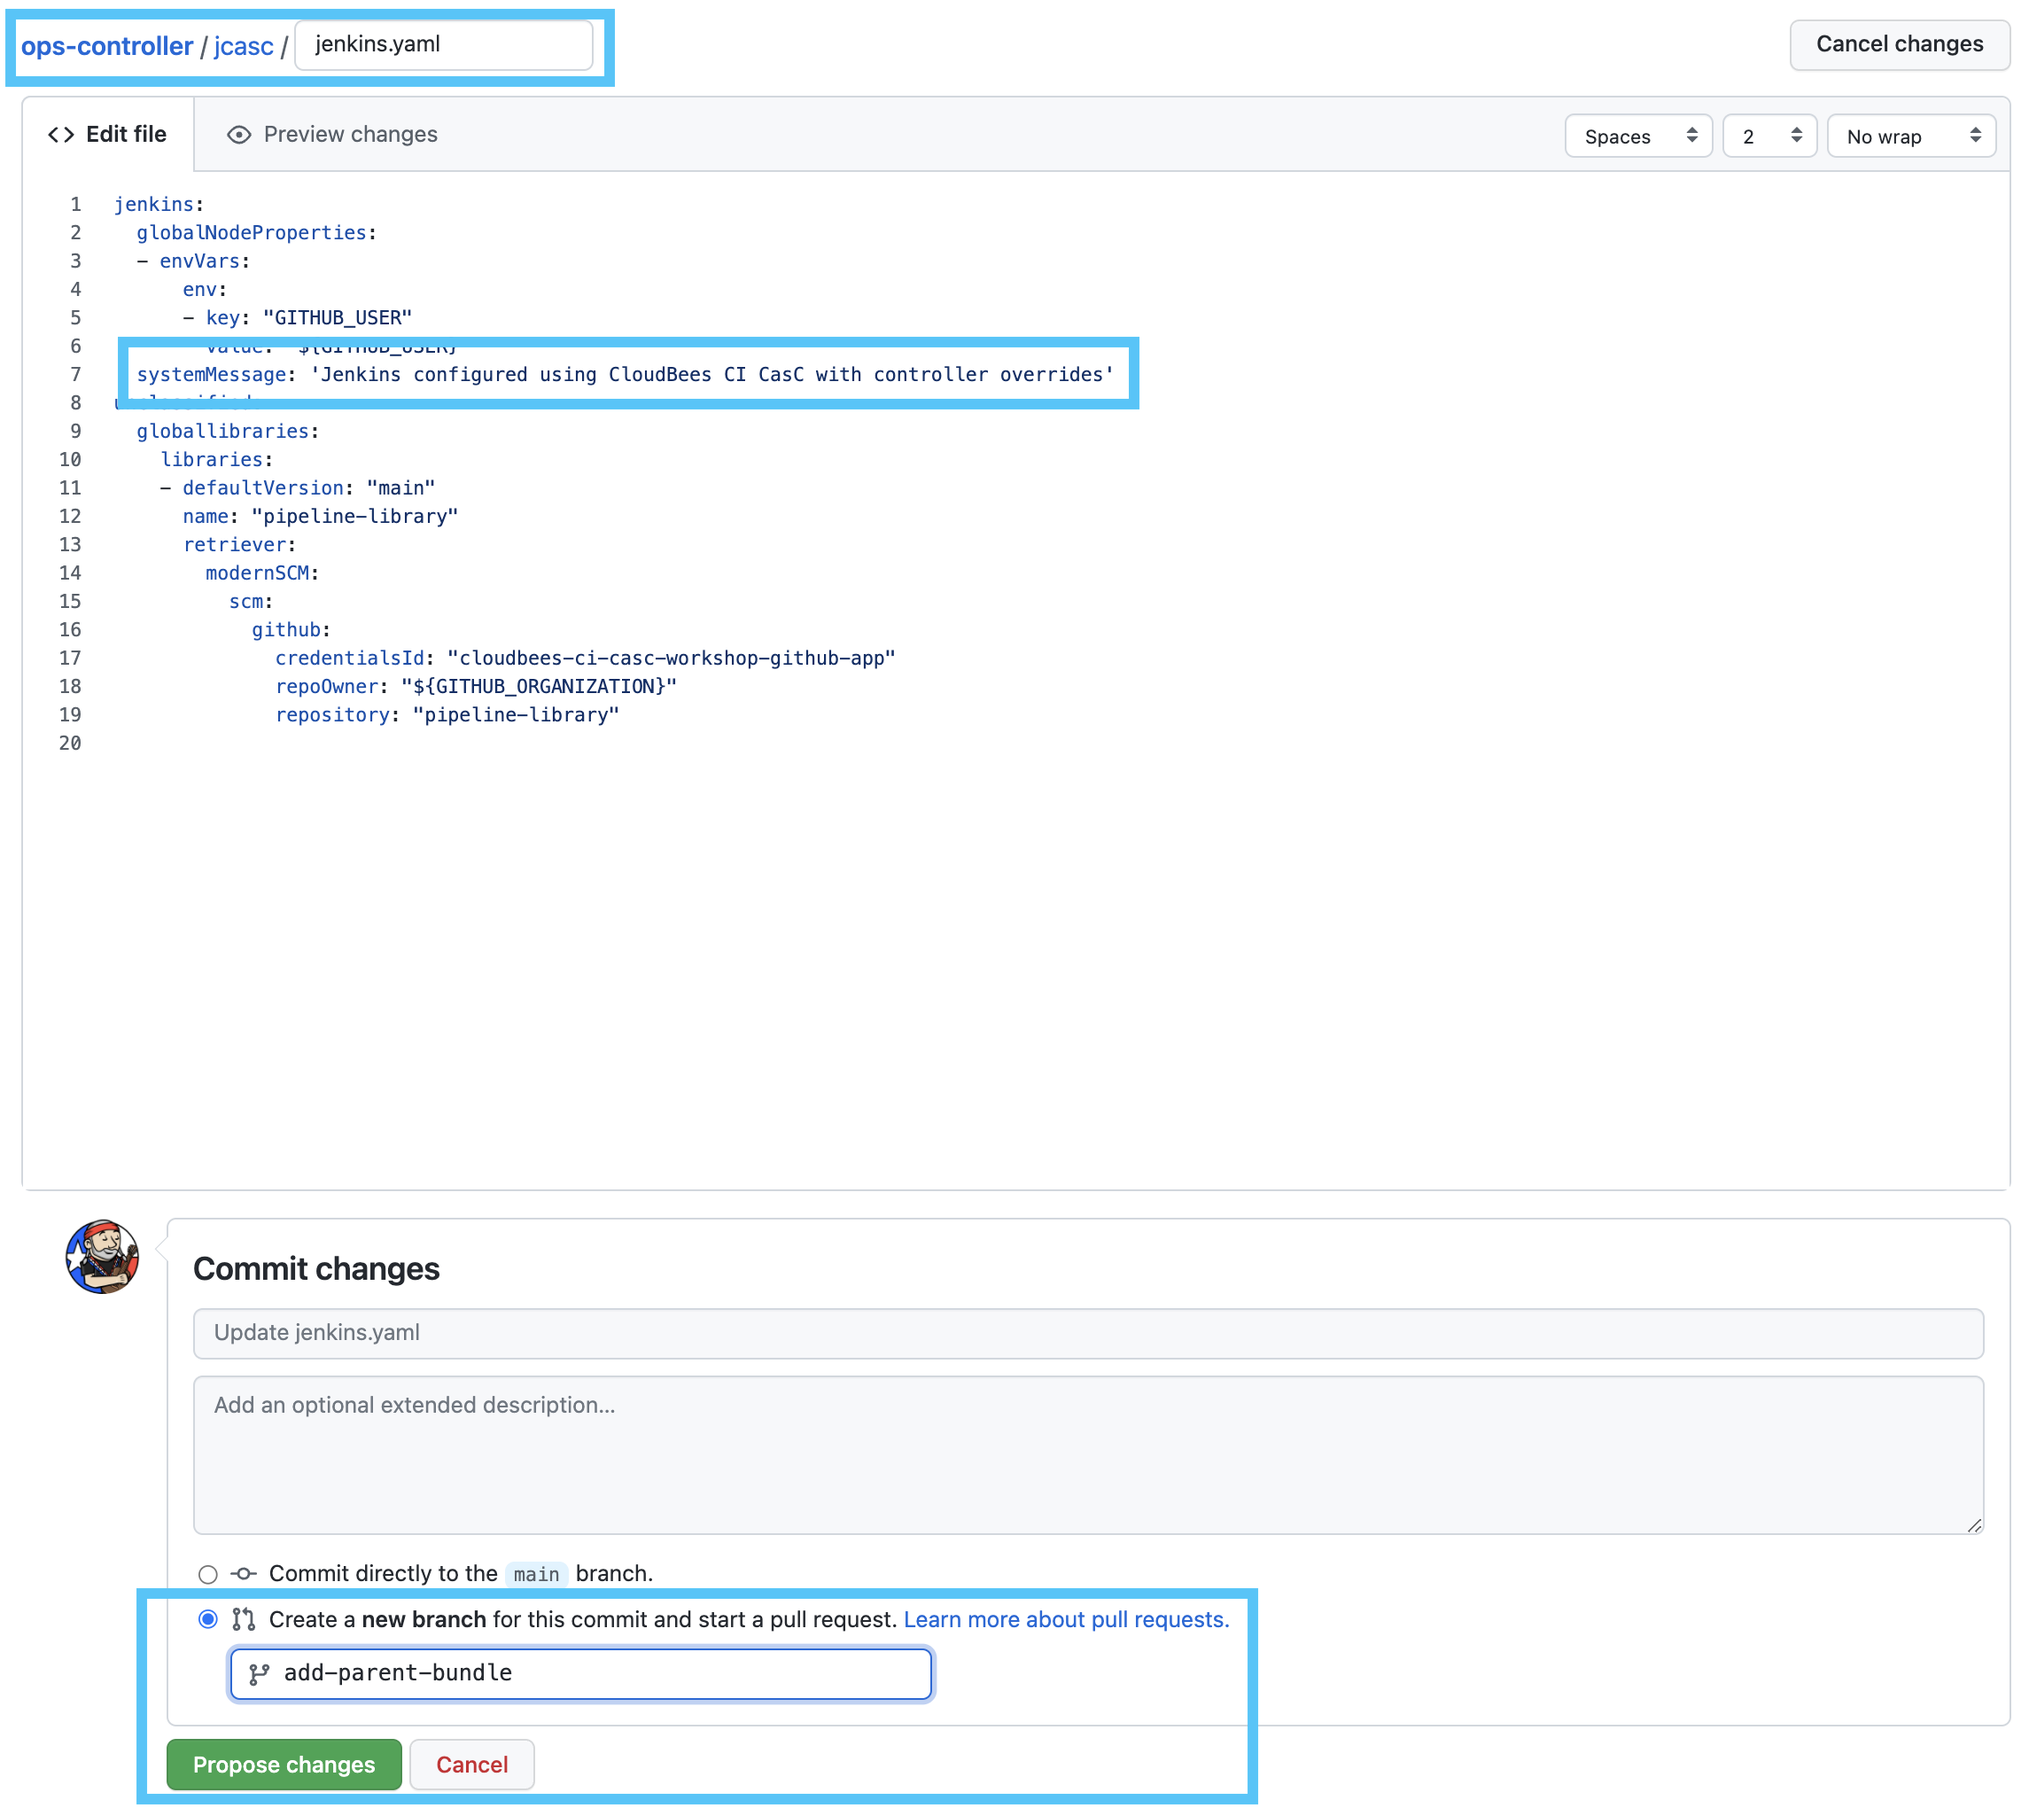
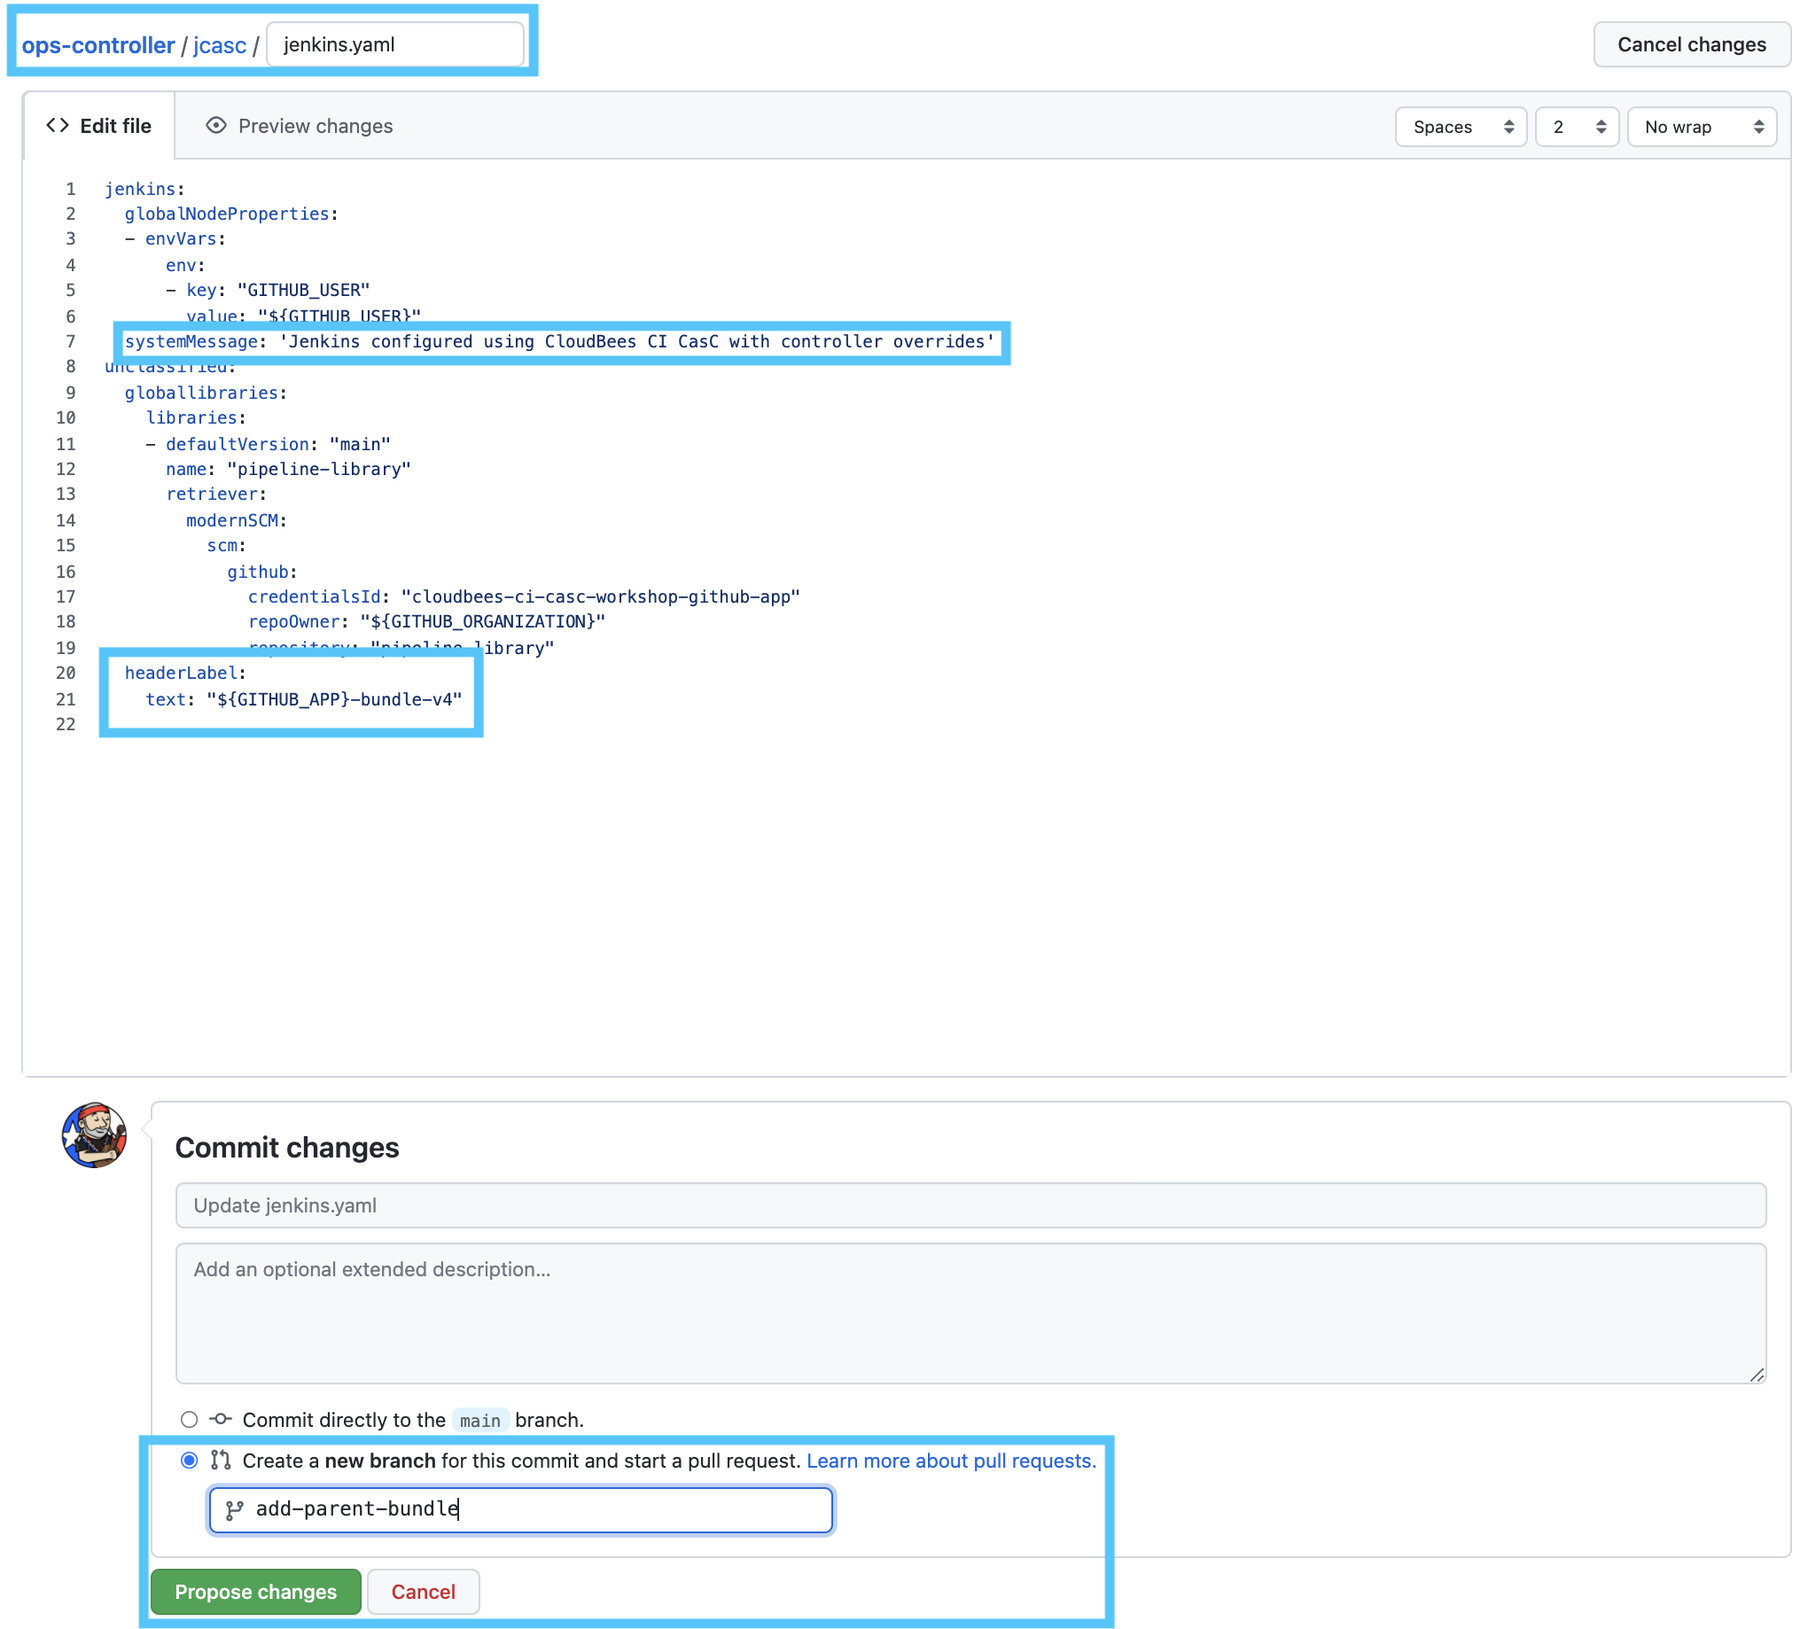
misc casc lab updates

diff --git a/labs/cloudbees-ci-casc/content/labs/advanced-bundle-composition.md b/labs/cloudbees-ci-casc/content/labs/advanced-bundle-composition.md
@@ -17,6 +17,11 @@ credentials:
     domainCredentials:
     - credentials:
       - string:
+          description: "CasC Update Secret"
+          id: "casc-update-secret"
+          scope: GLOBAL
+          secret: "${cbciCascWorkshopControllerProvisionSecret}"
+      - string:
           description: "Webhook secret for CloudBees CI Workshop GitHub App"
           id: "cloudbees-ci-workshop-github-webhook-secret"
           scope: SYSTEM
@@ -106,7 +111,7 @@ items:
 17. On the next screen, click on the **Bundle Update** link and you should see that a new version of the configuration bundle is available. Click the **Reload Configuration** button and on the next screen click the **Yes** button to apply the updated configuration bundle.
 
 {{% notice note %}}
-If you don't see the new version available then click the **Check for Updates** button. Also, once you click **Yes** it may take a few minutes for the bundle update to reload.
+There is a known issue 
 {{% /notice %}}
 
 18. After the bundle has finished loading, click on the **CloudBees Configuration as Code export and update** **System Configuration** item again and then click on the **Original Bundle** tab. ![Original bundle with folder](original-bundle-folder.png?width=50pc)
@@ -192,7 +197,10 @@ notificationConfiguration:
 ```yaml
 plugins:
 - id: antisamy-markup-formatter
-- id: cloudbees-casc-api
+- id: cloudbees-casc-client
+- id: cloudbees-casc-items-api
+- id: cloudbees-casc-items-commons
+- id: cloudbees-casc-items-controller
 - id: cloudbees-github-reporting
 - id: cloudbees-groovy-view
 - id: cloudbees-monitoring
@@ -236,6 +244,7 @@ configurations:
    - Delete the `quietPeriod` under `jenkins`.
    - Update the `systemMessage` to `'Jenkins configured using CloudBees CI CasC with controller overrides'`.
    - Under the `unclassified` section delete everything except for the `globallibraries` section.
+   - Update the `headerLabel` `text` to **v4**.
    - After making those changes, your `jenkins.yaml` file should match the following:
 ```yaml
 jenkins:
@@ -257,6 +266,8 @@ unclassified:
               credentialsId: "cloudbees-ci-casc-workshop-github-app"
               repoOwner: "${GITHUB_ORGANIZATION}"
               repository: "pipeline-library"
+  headerLabel:
+    text: "${GITHUB_APP}-bundle-v4"
 ```
 9. Next, because we have other changes we need to make before we trigger a bundle update, select the option to **"Create a new branch for this commit and start a pull request"**, name the branch `add-parent-bundle` and then click the **Propose changes** button. ![Commit jenkins.yaml](github-commit-jenkins-yaml.png?width=50pc)
 10. On the next screen click the **Create pull request** button to create a pull request to merge to the `main` branch when are done updating your `ops-controller` configuration bundle. ![Create pull request](github-create-pr.png?width=50pc)

diff --git a/labs/cloudbees-ci-casc/content/labs/provisioning-with-casc.md b/labs/cloudbees-ci-casc/content/labs/provisioning-with-casc.md
@@ -4,7 +4,7 @@ chapter: false
 weight: 5
 --- 
 
-The parent `base` bundle we explored in the previous lab is also configured to be the default bundle for all managed controllers that do not specify one. This allows you to easily manage configuration across all of your organization's managed controllers, but it does not allow for any variations in configuration bundles between controllers. Also, the number of manual steps to provision a managed controller, and apply controller specific bundles to numerous controllers, wastes time and is prone to configuration errors. Imagine if you had dozens or even hundreds of controllers (like we do in this workshop), things would quickly become very difficult to manage.
+The parent `base` bundle we explored in the previous lab is also configured to be the default bundle for all managed controllers that do not specify a bundle. This allows you to easily manage configuration across all of your organization's managed controllers, but it does not allow for any variations in configuration bundles between controllers. Also, the number of manual steps to provision a managed controller, and apply controller specific bundles across numerous controllers, wastes time and is prone to configuration errors. Imagine if you had dozens or even hundreds of controllers (like we do in this workshop), things would quickly become very difficult to manage.
 
 In this lab we will explore a GitOps approach for automating the process of provisioning a controller, to include automating the configuration and assignment of a controller specific configuration bundle. This approach is based on individual repositories representing individual controllers, and takes advantage of the Jenkins GitHub Organization project type and CloudBees CI custom marker file we setup earlier. After we are done updating the `controller-casc-automation` Jenkins pipeline script in our copy of the `ops-controller` repository, a new controller will be provisioned any time you add a new GitHub repository with a `controller.yaml` file to your workshop GitHub Organization. The managed controller will be provisioned with the configuration bundle from the associated GitHub repository (one other approach may be to use folders in one repository to represent each controller).
 

diff --git a/labs/cloudbees-ci-casc/content/labs/bundle-management.md b/labs/cloudbees-ci-casc/content/labs/bundle-management.md
@@ -210,4 +210,5 @@ pipeline {
 }
 ```
 
+3. Now, the next time you update any of the bundle files on the `main` branch of your `ops-controller` repository, the changes will be automatically applied to your controller.
 
